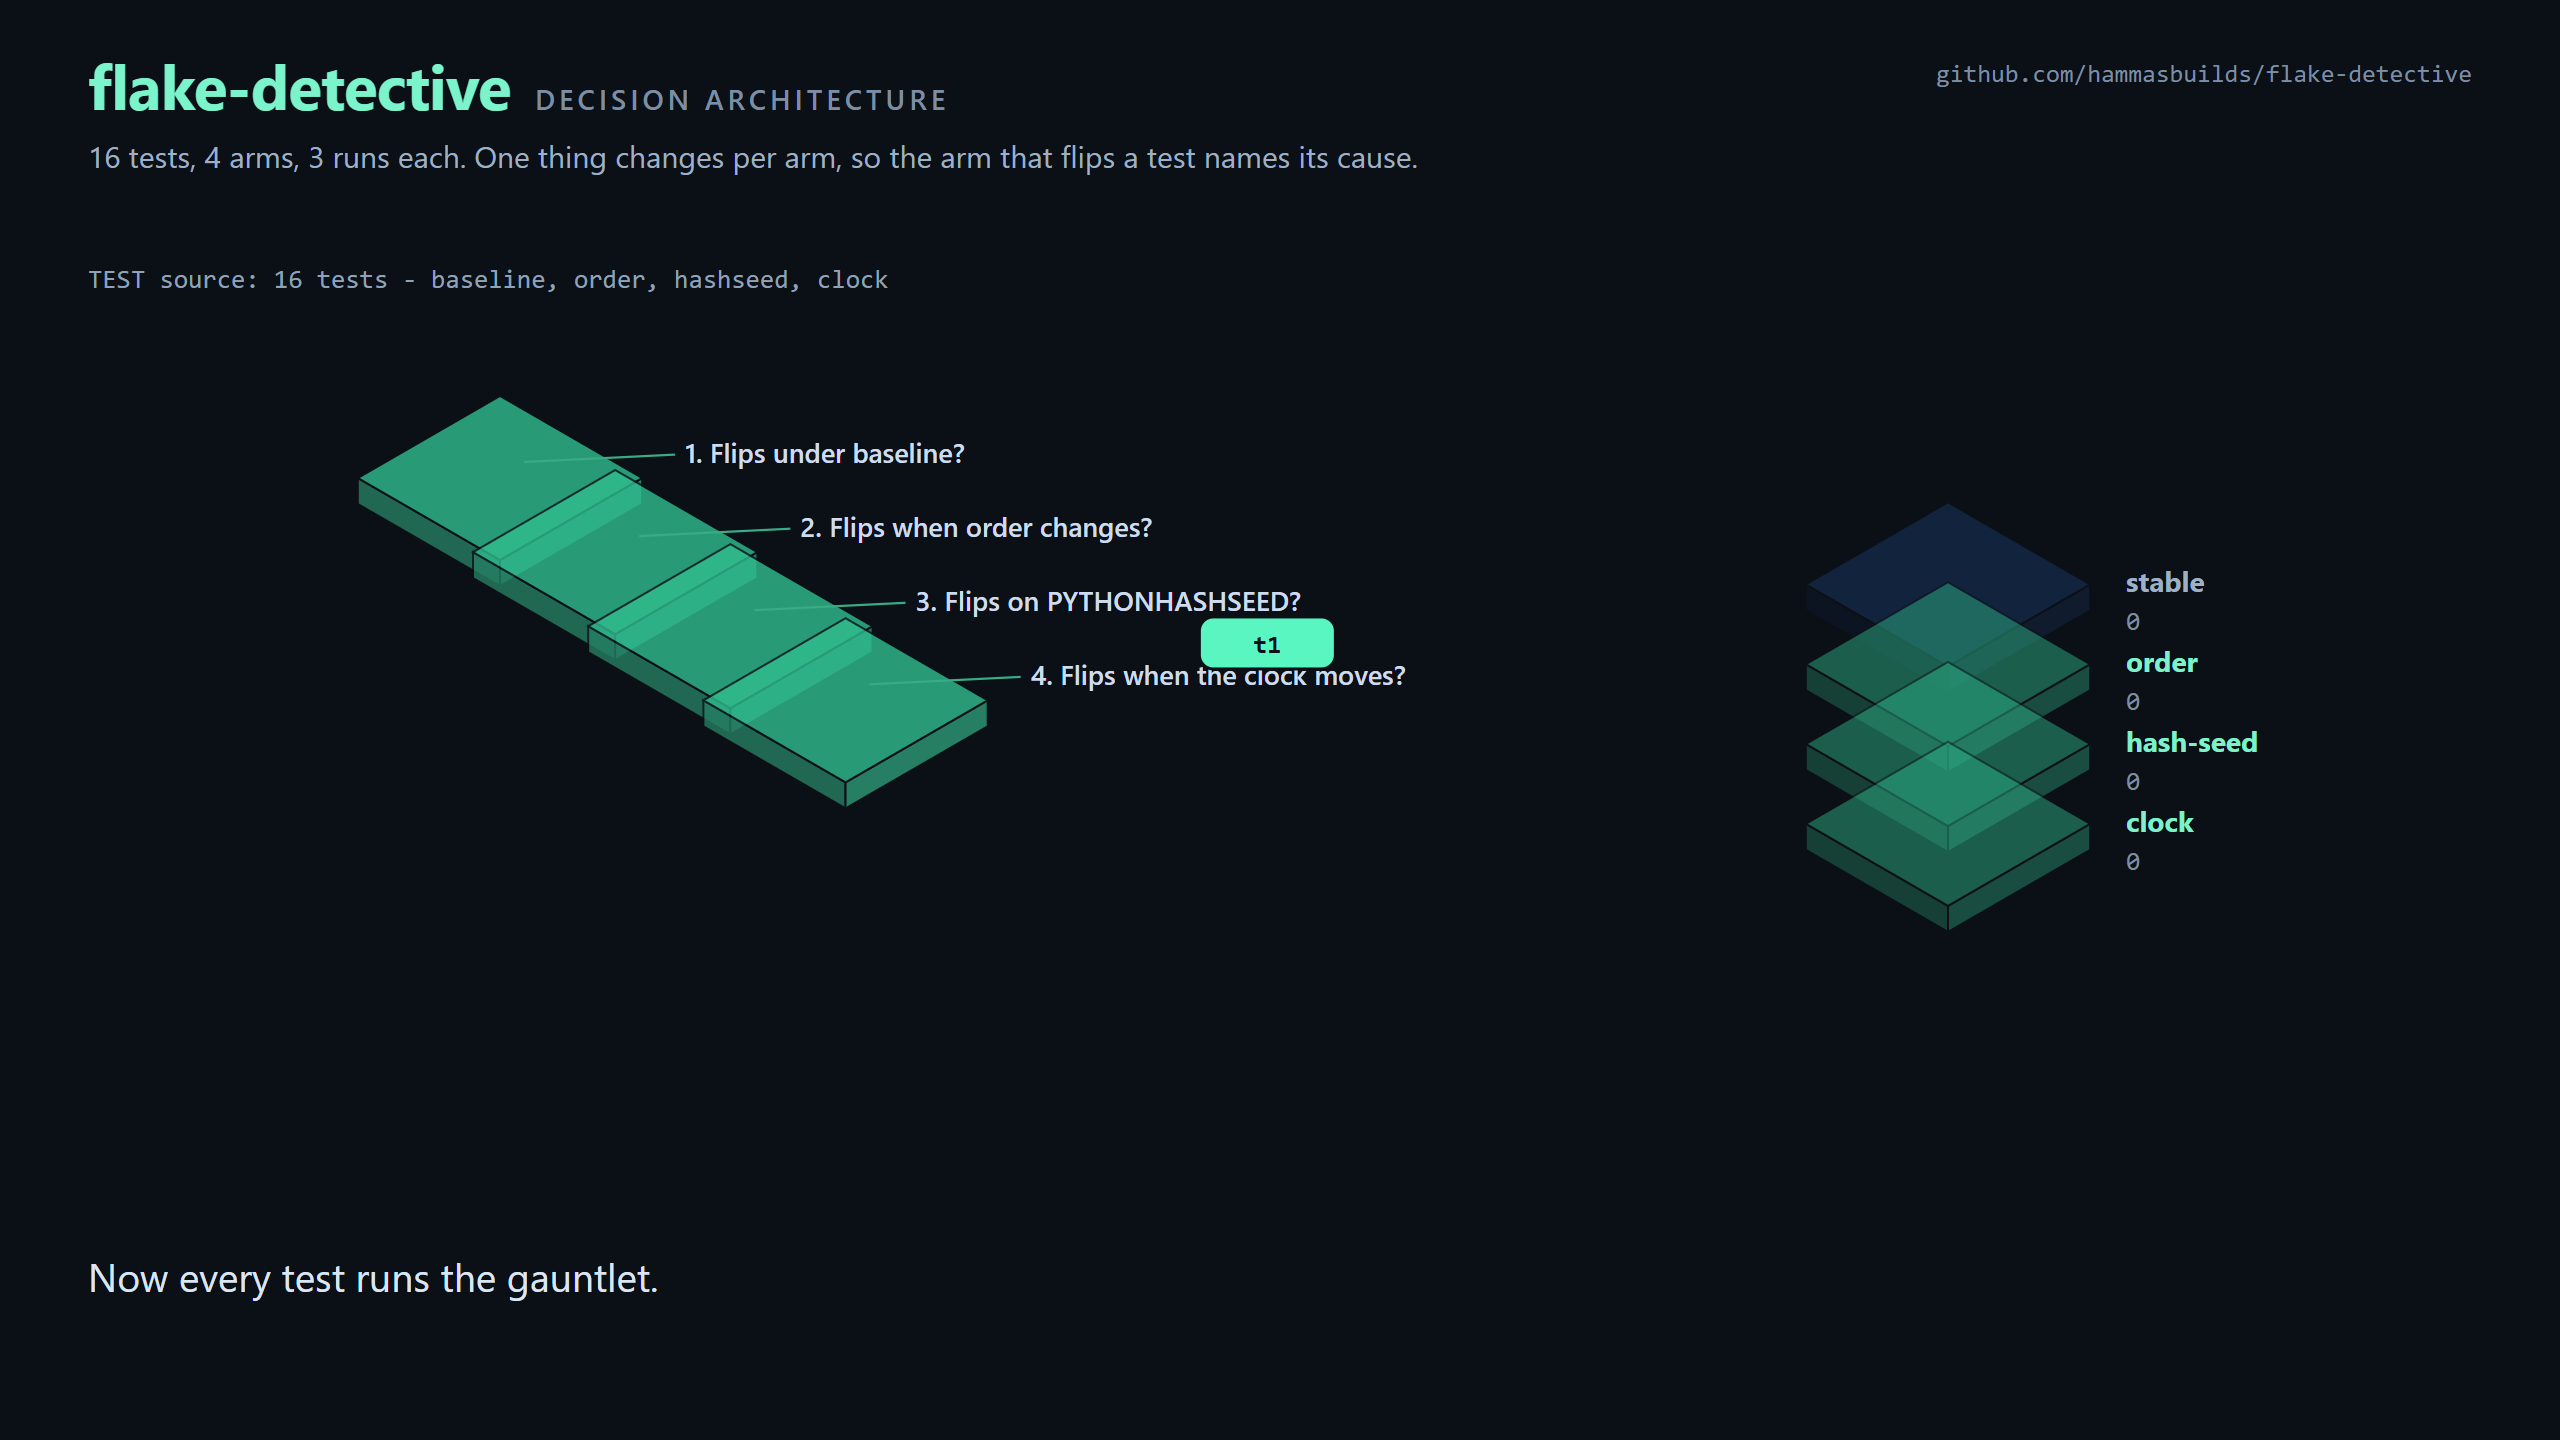
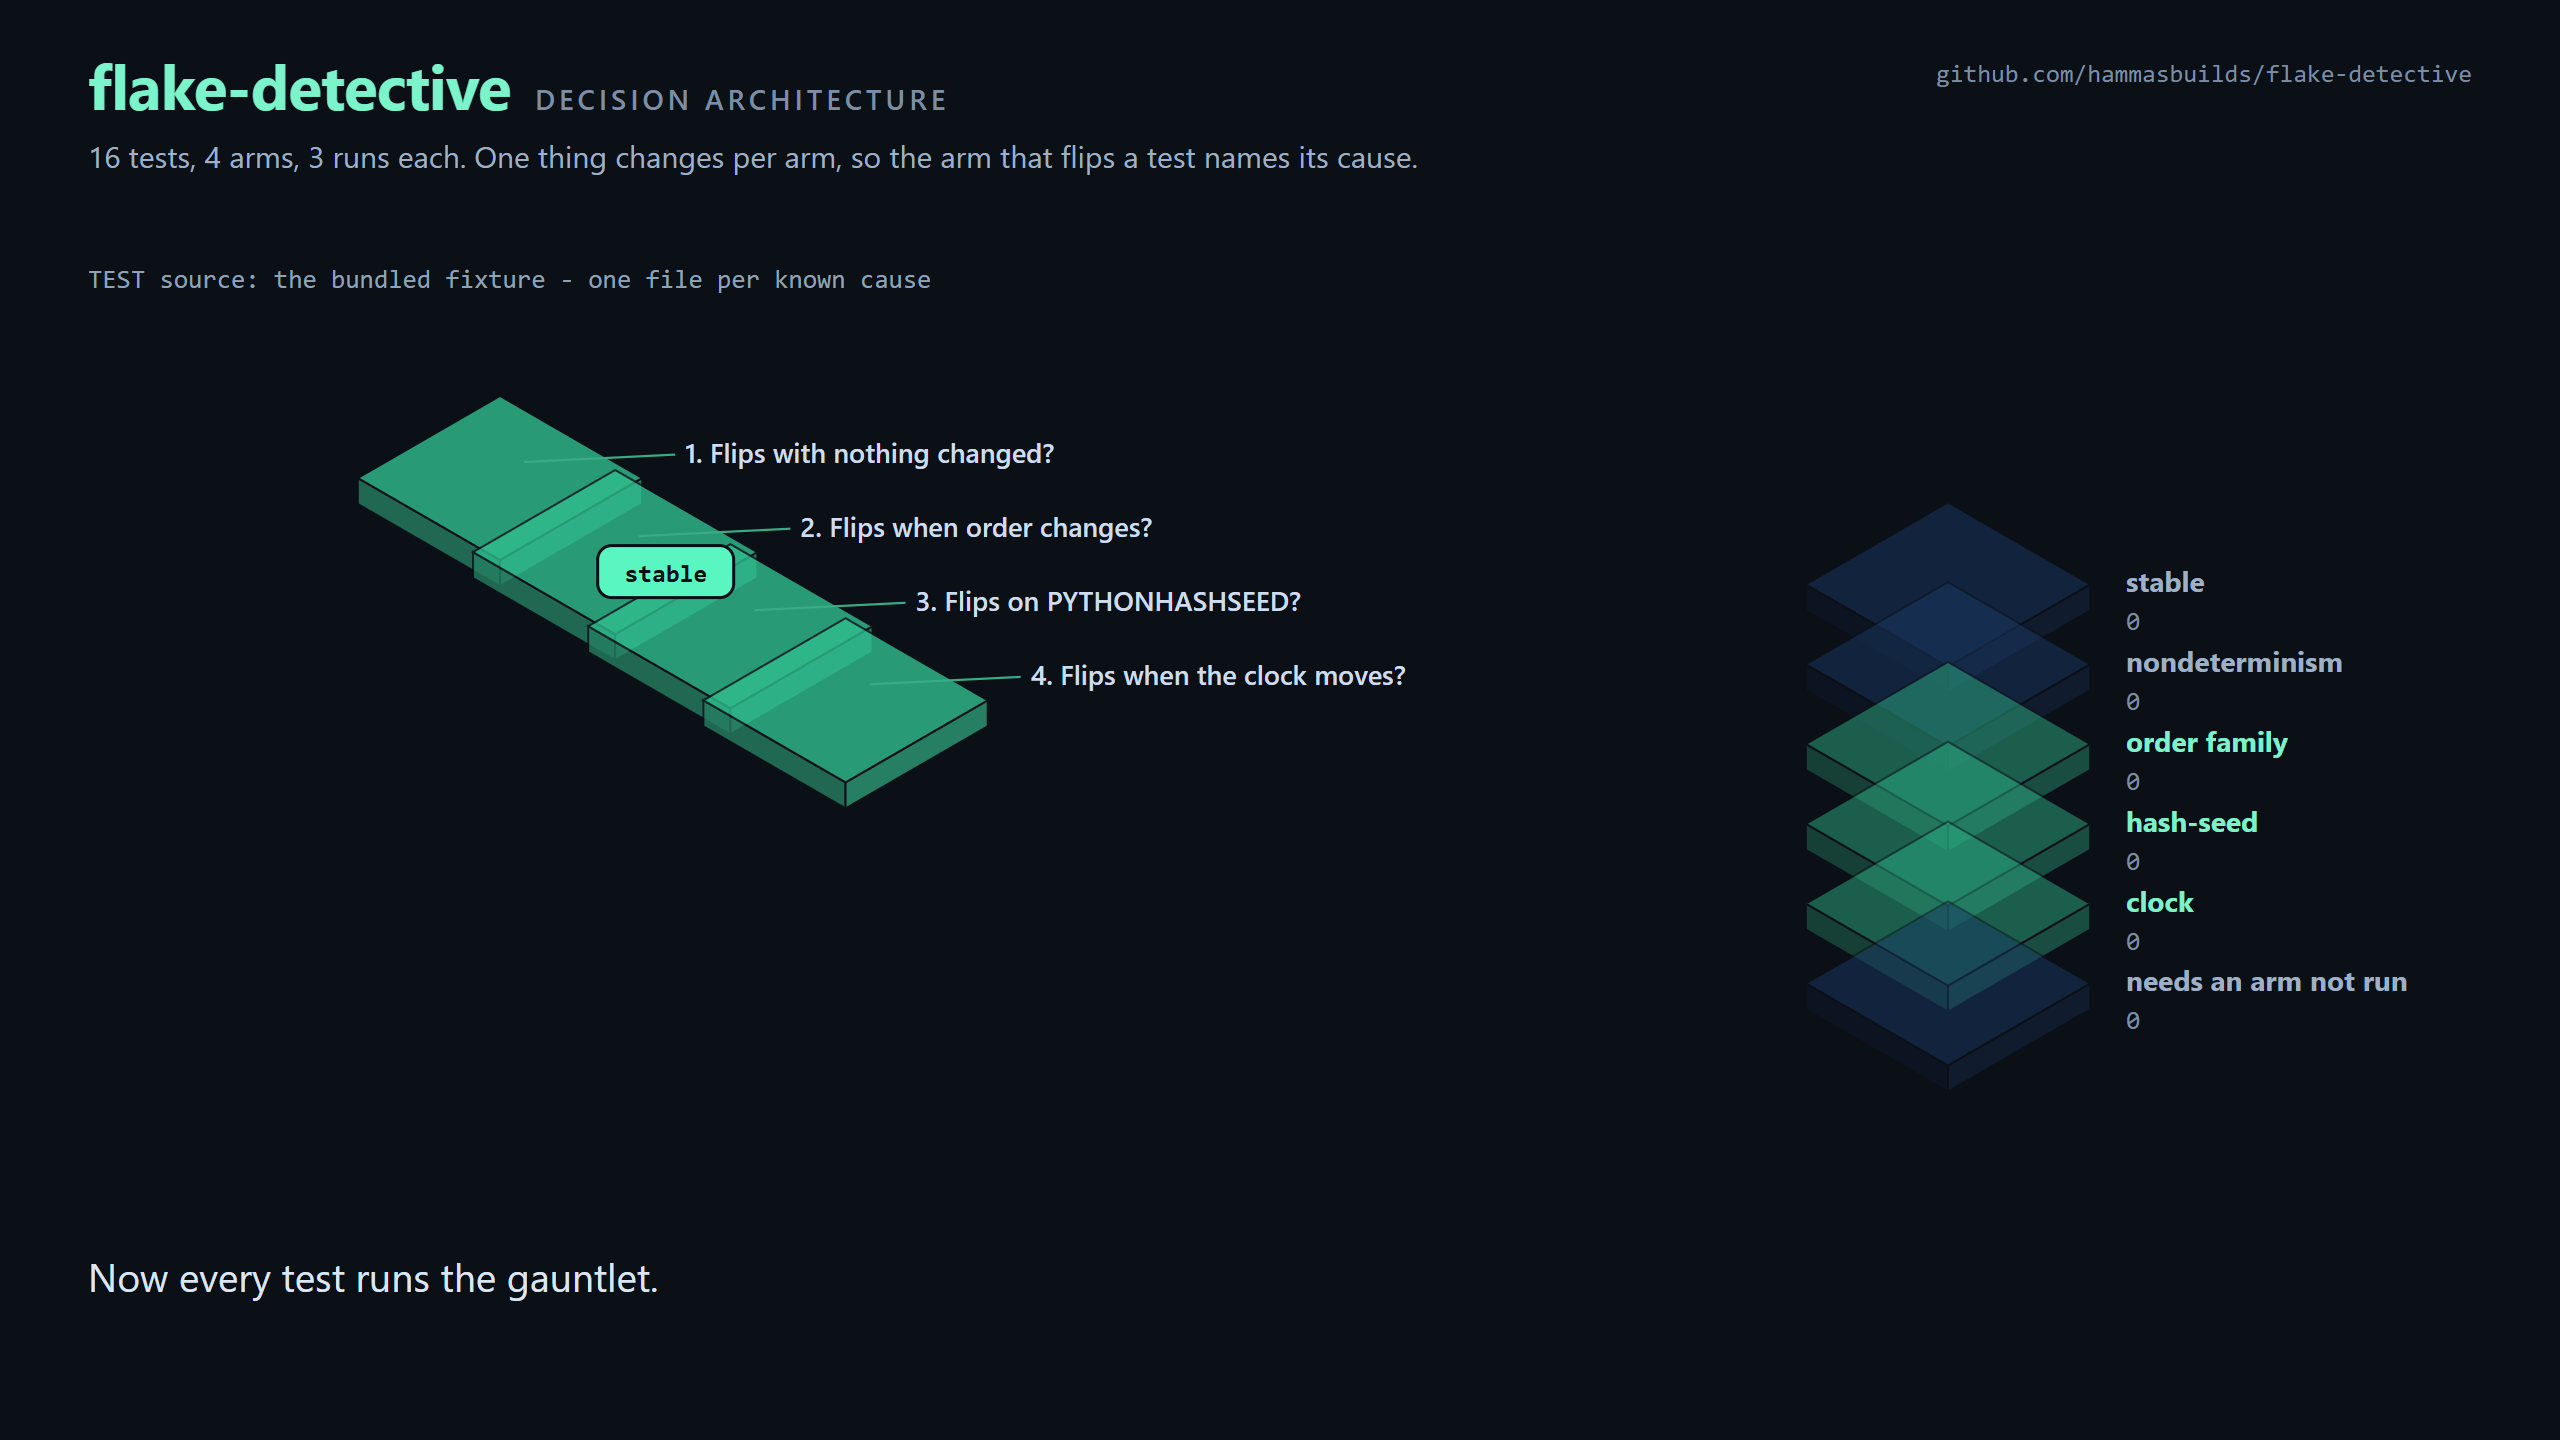
Correct two claims in the decision animation that the tool does not make
blast-radius showed seven symbols including "with_tax" and "bundle_price",
which do not exist. The six it really names are format_price, legacy_total,
shipping, total, bulk_total and discount - and shipping is both widened and
silent, so the outcomes are not a clean partition. The animation now says so.

flake-detective was built from one live investigation, and that run is not
repeatable at three runs per arm: the per-cause split came out order 3, then
order 2 + nondeterminism 1, then order 1 + unknown 2. It is now built from
the bundled fixture, where each file states the cause it was written to have,
and it shows the three causes these four arms cannot name at all rather than
quoting a split that moves.

diff --git a/docs/architecture-deep.html b/docs/architecture-deep.html
@@ -24,12 +24,12 @@
 <div id="stage">
   <div class="hdr"><h1>flake-detective<span>DECISION ARCHITECTURE</span></h1><p>16 tests, 4 arms, 3 runs each. One thing changes per arm, so the arm that flips a test names its cause.</p></div>
   <div class="repo">github.com/hammasbuilds/flake-detective</div>
-  <div class="src">TEST source: 16 tests - baseline, order, hashseed, clock</div>
+  <div class="src">TEST source: the bundled fixture - one file per known cause</div>
   <svg id="scene" viewBox="0 0 1280 720"></svg>
   <div class="cap"><div class="mod" id="cmod"></div><div class="txt" id="ctxt"></div></div>
 </div>
 <script>
-const D = {"title": "flake-detective", "hue": 160, "sub": "16 tests, 4 arms, 3 runs each. One thing changes per arm, so the arm that flips a test names its cause.", "repo": "github.com/hammasbuilds/flake-detective", "unit": "TEST", "source": "16 tests - baseline, order, hashseed, clock", "gates": [{"q": "Flips under baseline?", "f": "run.py", "d": "Identical conditions, repeated. A test that flips here is unstable on its own."}, {"q": "Flips when order changes?", "f": "classify.py", "d": "Shuffled order. A rate that differs from baseline by more than noise means ORDER."}, {"q": "Flips on PYTHONHASHSEED?", "f": "classify.py", "d": "Set iteration order moves. Anything reading a set's first element shows up here."}, {"q": "Flips when the clock moves?", "f": "freeze.py", "d": "The wall clock is frozen in the baseline, so a test reading time flips only here."}], "bins": [{"k": "stable", "n": 11}, {"k": "order", "n": 3}, {"k": "hash-seed", "n": 1}, {"k": "clock", "n": 1}], "units": [["t1", 3, 0], ["t2", 3, 0], ["t3", 3, 0], ["t4", 3, 0], ["t5", 3, 0], ["t6", 3, 0], ["t7", 3, 0], ["t8", 3, 0], ["t9", 3, 0], ["t10", 3, 0], ["t11", 3, 0], ["needs_setup", 1, 1], ["aaa_first_one_wins", 1, 1], ["unseeded_random", 1, 1], ["first_of_a_set", 2, 2], ["second_is_even", 3, 3]], "close": "5 flaky, each with a named cause - and 11 stable tests not flagged. 'Rerun it' would have told you none of this."}, hue = D.hue;
+const D = {"title": "flake-detective", "hue": 160, "sub": "16 tests, 4 arms, 3 runs each. One thing changes per arm, so the arm that flips a test names its cause.", "repo": "github.com/hammasbuilds/flake-detective", "unit": "TEST", "source": "the bundled fixture - one file per known cause", "gates": [{"q": "Flips with nothing changed?", "f": "run.py", "d": "Identical conditions, repeated. Flipping here is nondeterminism in the test itself."}, {"q": "Flips when order changes?", "f": "classify.py", "d": "Shuffled order. A rate differing from baseline by more than noise means the order family."}, {"q": "Flips on PYTHONHASHSEED?", "f": "classify.py", "d": "Set iteration order moves. Anything reading a set's first element shows up here."}, {"q": "Flips when the clock moves?", "f": "freeze.py", "d": "The clock is frozen in the baseline, so a test reading time can only flip here."}], "bins": [{"k": "stable", "n": 1}, {"k": "nondeterminism", "n": 1}, {"k": "order family", "n": 2}, {"k": "hash-seed", "n": 1}, {"k": "clock", "n": 1}, {"k": "needs an arm not run", "n": 3}], "units": [["stable", 3, 0], ["nondeterministic", 0, 1], ["order_dependent", 1, 2], ["needs_setup", 1, 2], ["hash_dependent", 2, 3], ["clock_dependent", 3, 4], ["locale_dependent", 3, 5], ["timezone_dependent", 3, 5], ["parallel_dependent", 3, 5]], "close": "Three causes cannot be named by these four arms at all - locale, timezone and parallelism need their own, which is why the tool reports them unscoreable rather than guessing. And attribution is not free: at 3 runs per arm the split moves between runs; it takes 7 to settle."}, hue = D.hue;
 const NS="http://www.w3.org/2000/svg", svg=document.getElementById("scene");
 const S=38, H=13, OX=250, OY=252;
 const iso=(x,y,z)=>[OX+(x-y)*S*Math.cos(Math.PI/6), OY+(x+y)*S*Math.sin(Math.PI/6)-z*H];
